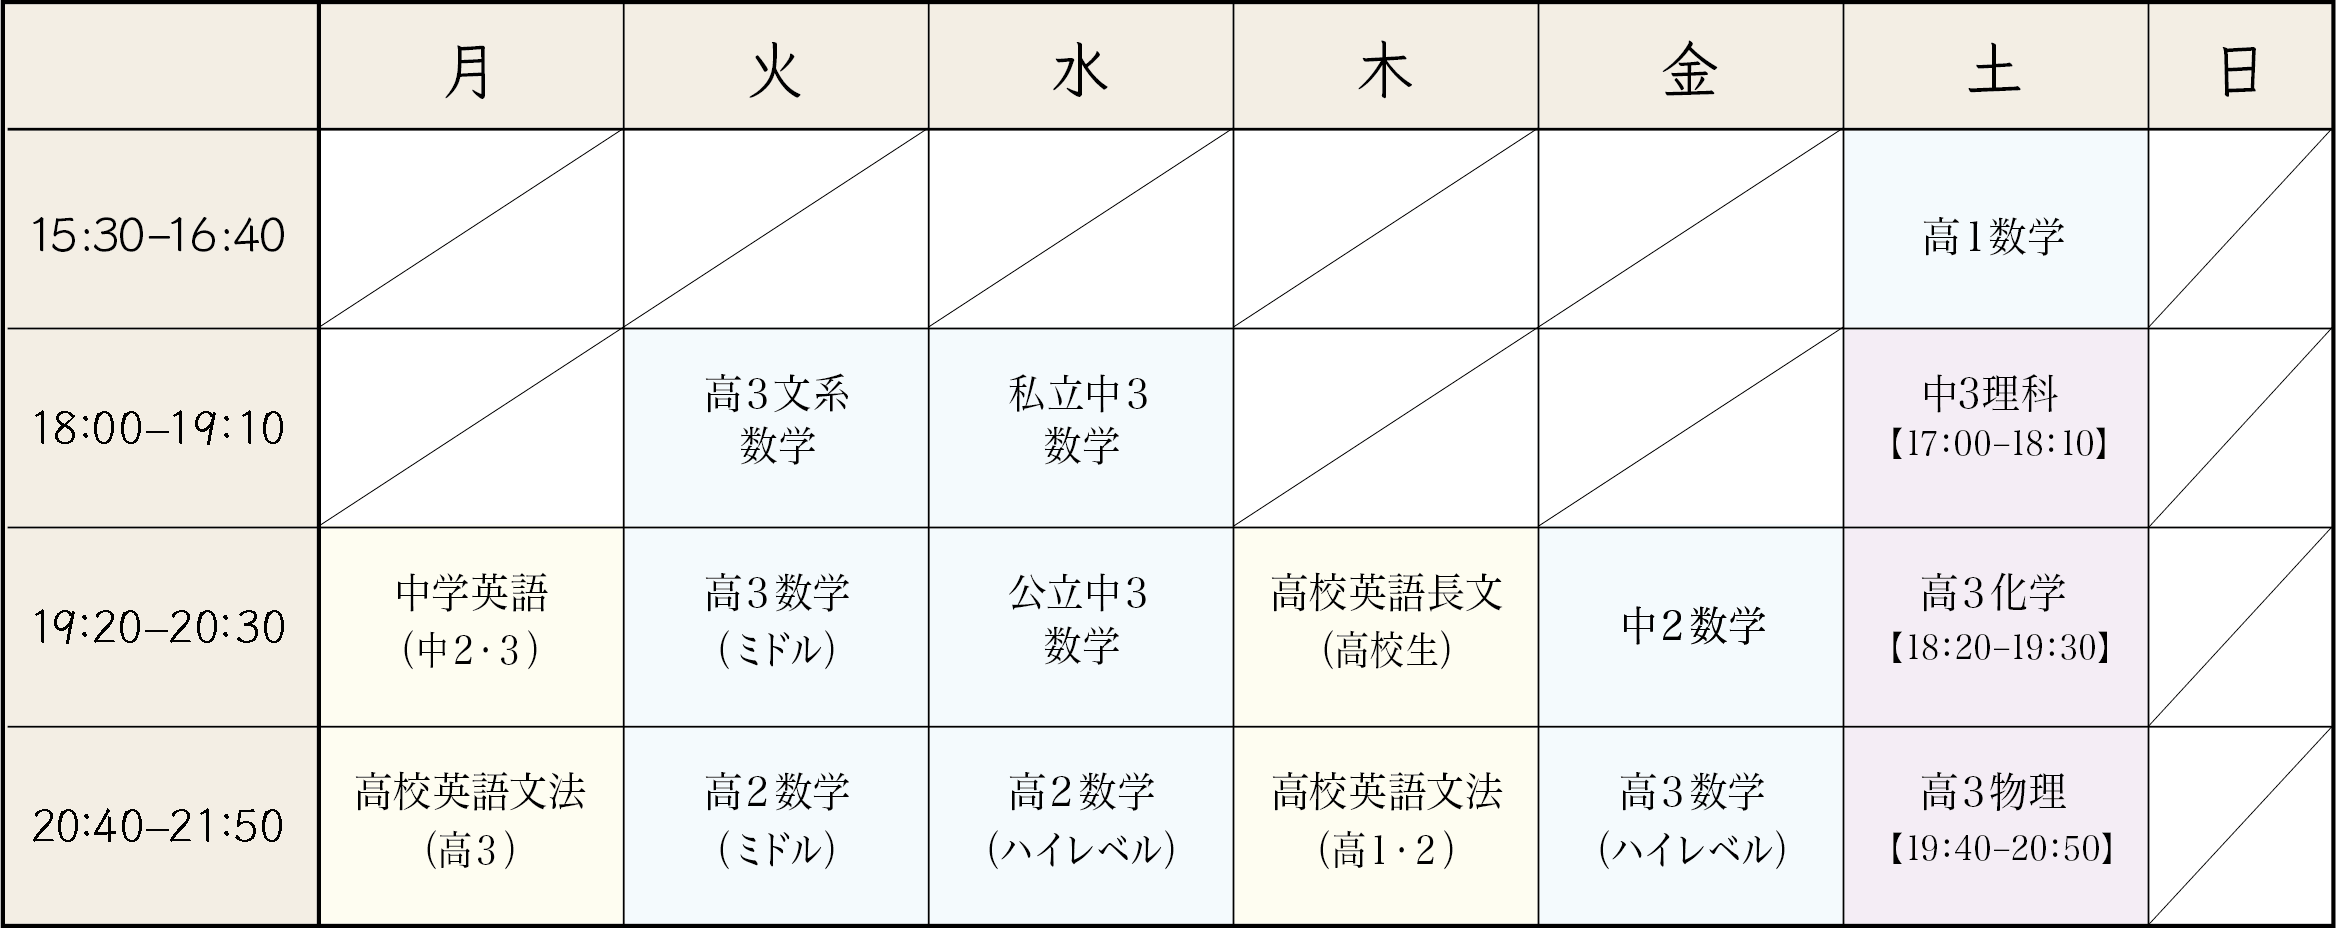
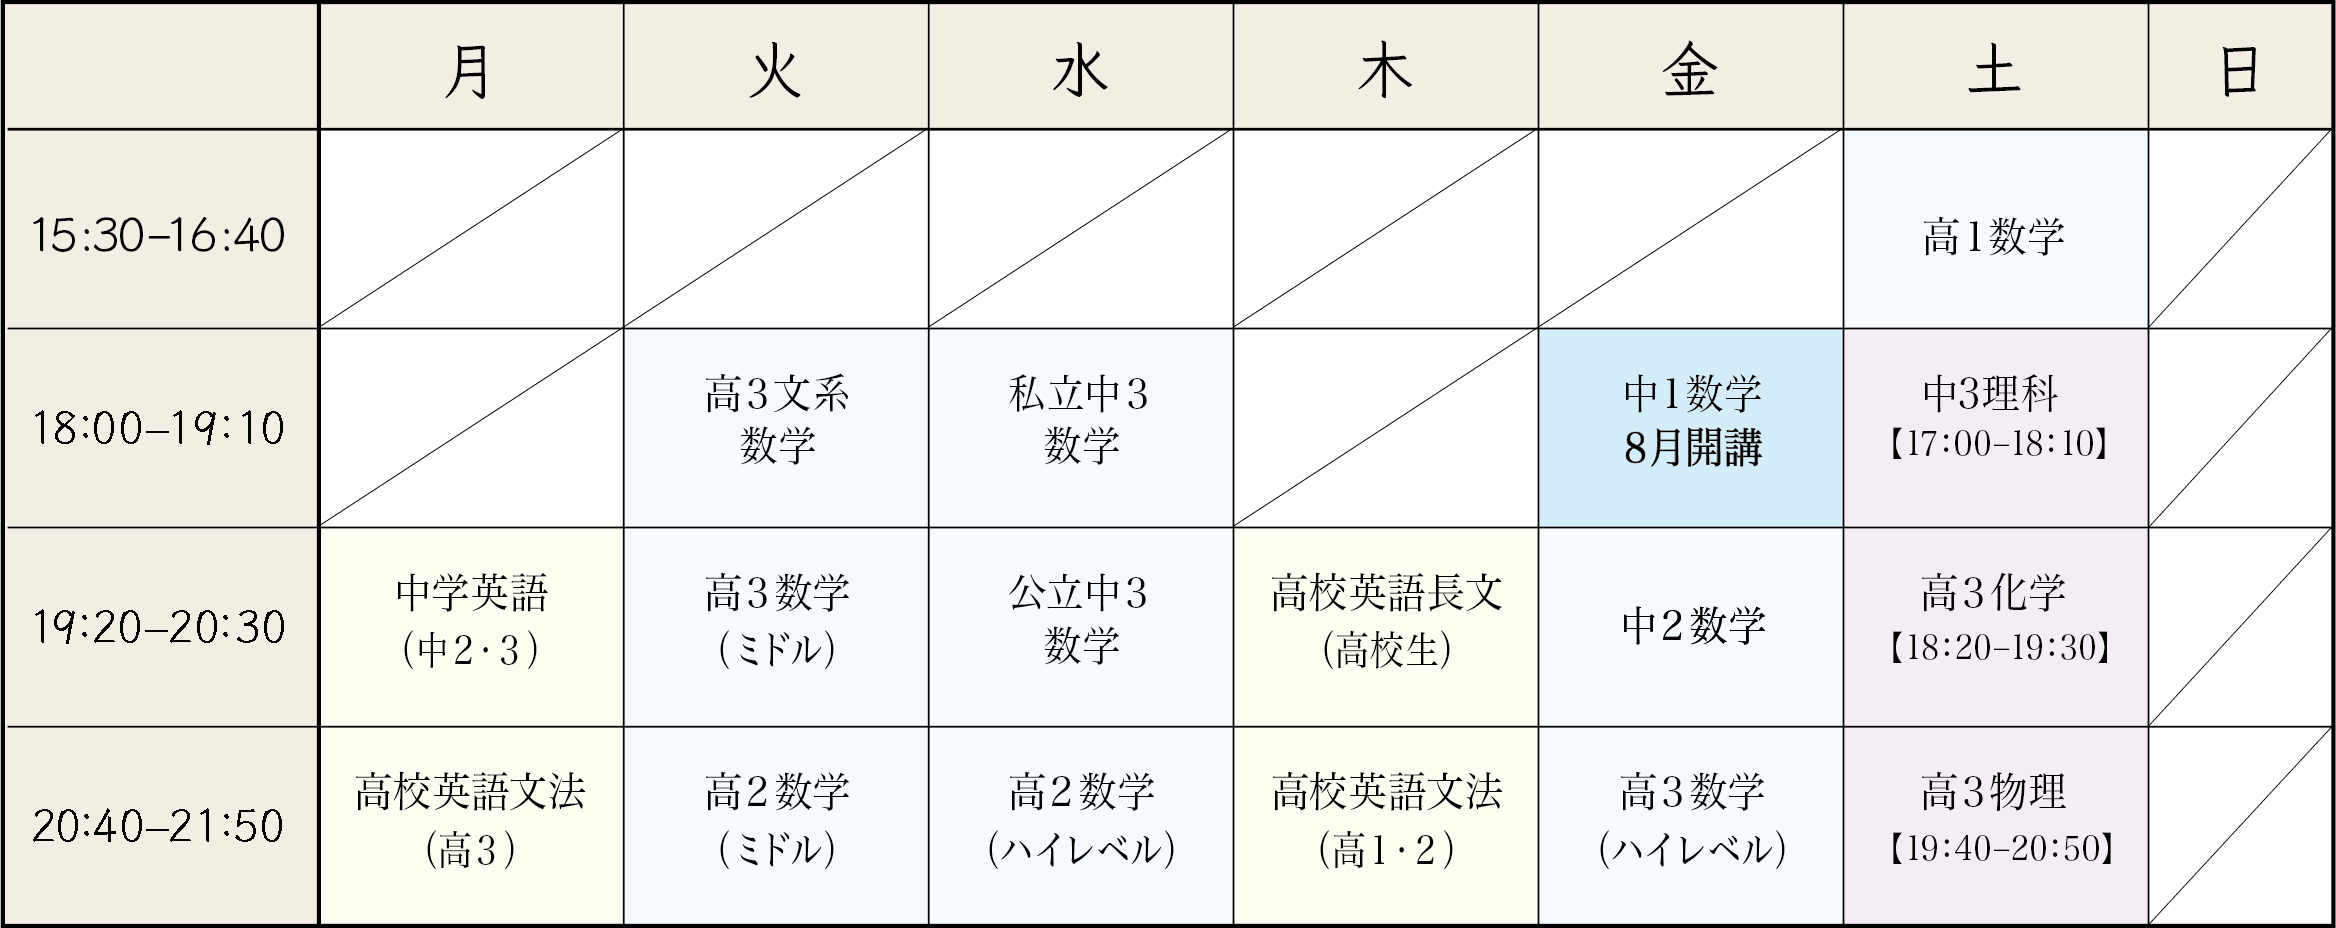
Update courses page schedule image and add 中1 math options to booking form

Changed region(s): [[0.6562, 0.3438, 0.8125, 0.5938]]

diff --git a/booking.html b/booking.html
@@ -482,6 +482,8 @@
         <select name="course1" required>
           <option value="">選択</option>
           <optgroup label="数学">
+            <option>中１数学7/24 (8/7通常授業開校)</option>
+            <option>中１数学7/31 (8/7通常授業開校)</option>
             <option>中２数学</option>
             <option>公立中３数学</option>
             <option>私立中３数学</option>
@@ -514,6 +516,8 @@
         <select name="course2">
           <option value="">選択</option>
           <optgroup label="数学">
+            <option>中１数学7/24 (8/7通常授業開校)</option>
+            <option>中１数学7/31 (8/7通常授業開校)</option>
             <option>中２数学</option>
             <option>公立中３数学</option>
             <option>私立中３数学</option>
@@ -546,6 +550,8 @@
         <select name="course3">
           <option value="">選択</option>
           <optgroup label="数学">
+            <option>中１数学7/24 (8/7通常授業開校)</option>
+            <option>中１数学7/31 (8/7通常授業開校)</option>
             <option>中２数学</option>
             <option>公立中３数学</option>
             <option>私立中３数学</option>
